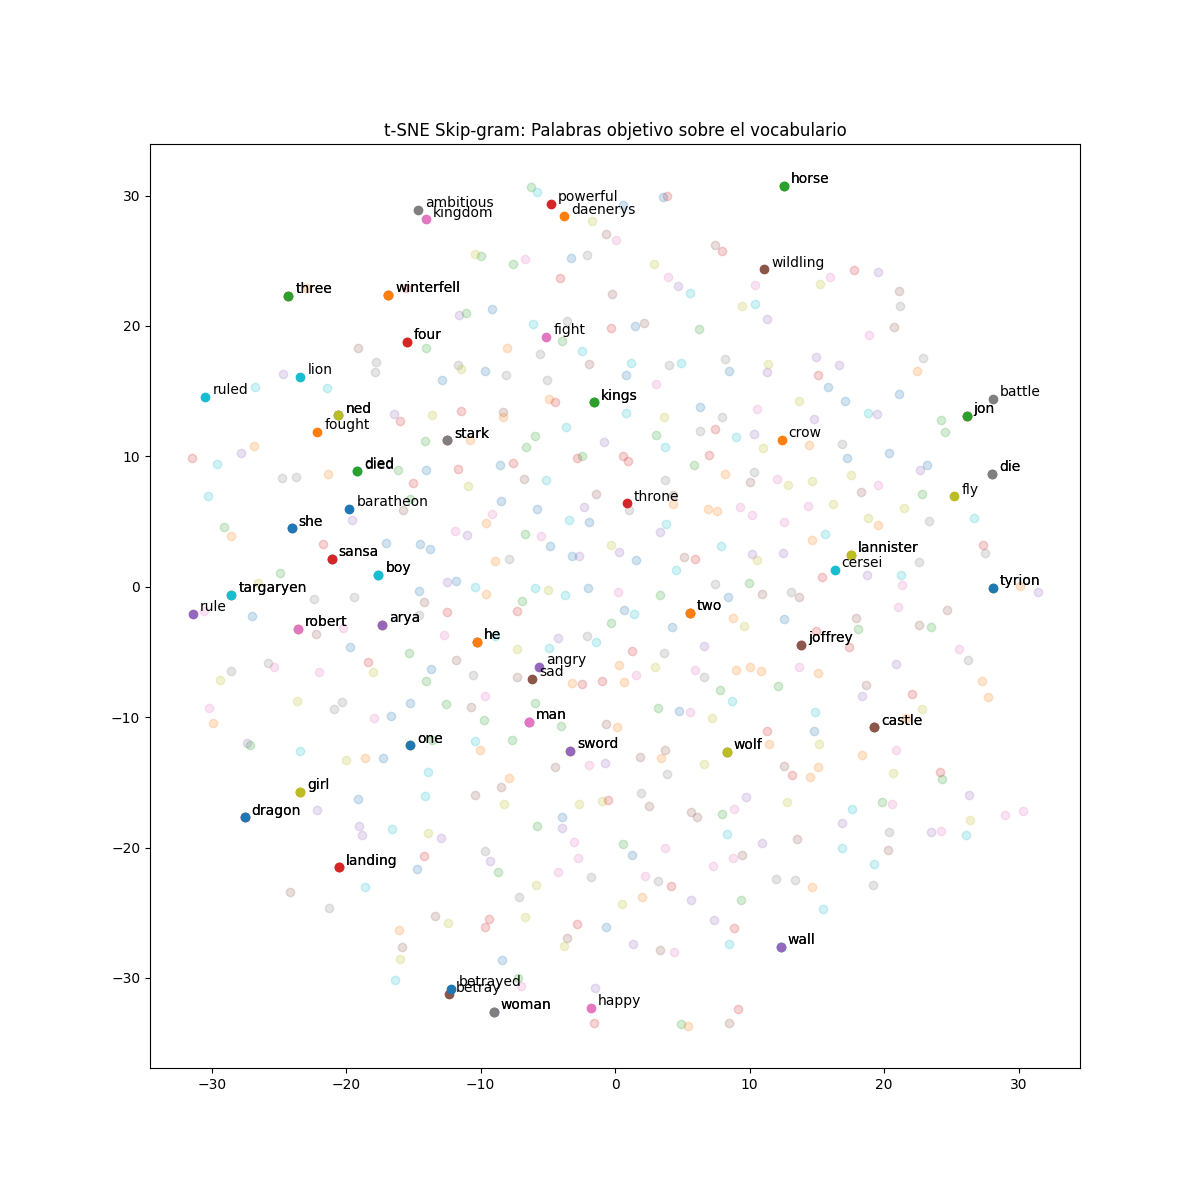
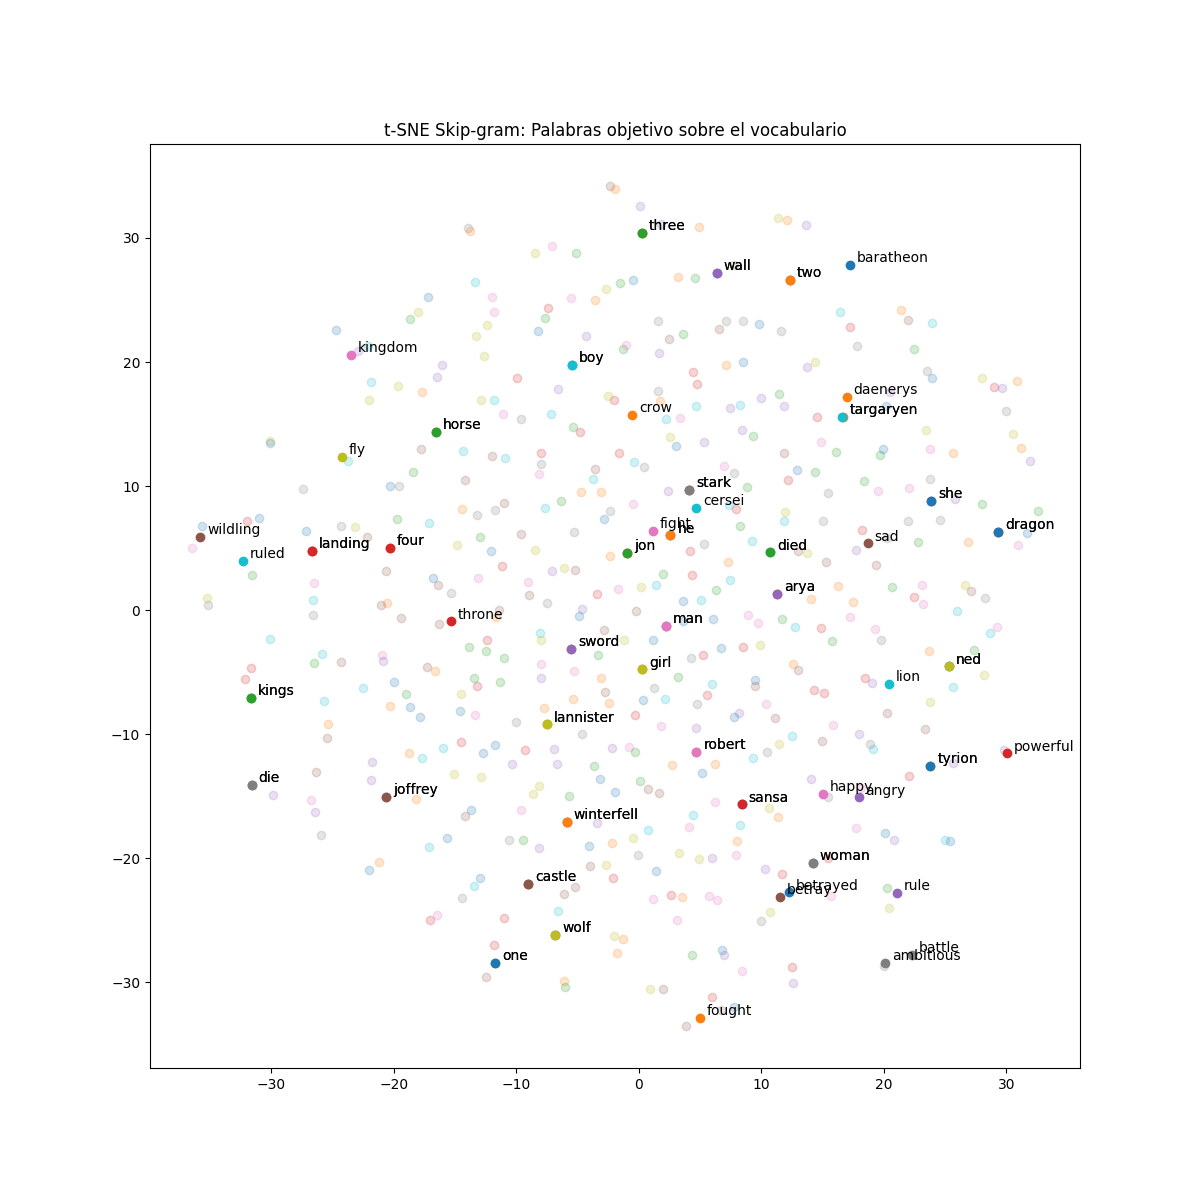
cambio ventana deslizante skipgram y reducción de épocas a 5 para evitar sobreajuste.

diff --git a/P2/skipgram.py b/P2/skipgram.py
@@ -27,7 +27,39 @@ def cargar_y_tokenizar(ruta_archivo):
     print(f"Tamaño del vocabulario: {vocab_size}")
     return tokenizer, secuencia_ids, vocab_size
 
-def submuestreo(secuencia, t=1e-4):
+def generar_muestras_skipgram(secuencia, vocab_size, window_size=2, negative_samples=4):
+    target_words = []
+    context_words = []
+    labels = []
+
+    for i, target in enumerate(secuencia):
+        # Definimos los límites de la ventana para la palabra actual
+        inicio = max(0, i - window_size)
+        fin = min(len(secuencia), i + window_size + 1)
+        
+        for j in range(inicio, fin):
+            if i == j: continue  # No emparejar la palabra consigo misma
+            
+            # 1. PAR POSITIVO (Palabra central + Palabra en ventana)
+            target_words.append(target)
+            context_words.append(secuencia[j])
+            labels.append(1)
+            
+            # 2. PARES NEGATIVOS (Muestreo Negativo)
+            for _ in range(negative_samples):
+                # Elegimos una palabra aleatoria del vocabulario
+                negativo = np.random.randint(1, vocab_size)
+                # Evitamos que la palabra negativa sea la propia palabra central
+                while negativo == target:
+                    negativo = np.random.randint(1, vocab_size)
+                
+                target_words.append(target)
+                context_words.append(negativo)
+                labels.append(0)
+
+    return np.array(target_words), np.array(context_words), np.array(labels)
+
+def submuestreo(secuencia, t=1e-5):
     total_words = len(secuencia)
     conteo = {}
     for word_id in secuencia:
@@ -167,10 +199,13 @@ if __name__ == "__main__":
     tokenizer, secuencia_ids, vocab_size = cargar_y_tokenizar(ruta_archivo)
     secuencia_filtrada = submuestreo(secuencia_ids)
 
-    # Generamos pares (1 positivo y 4 negativos por defecto)
-    pares, etiquetas = skipgrams(secuencia_filtrada, vocabulary_size=vocab_size, window_size=2, negative_samples=4, seed= 42)
-    word_target, word_context = zip(*pares)
-    word_target, word_context, etiquetas = np.array(word_target), np.array(word_context), np.array(etiquetas)
+    # Generamos pares (1 positivo y 4 negativos)
+    word_target, word_context, etiquetas = generar_muestras_skipgram(
+        secuencia_filtrada, 
+        vocab_size=vocab_size, 
+        window_size=2, 
+        negative_samples=4
+    )
 
     # Cargamos palabras objetivo
     with open(ruta_target, 'r', encoding='utf-8') as f:
@@ -188,7 +223,7 @@ if __name__ == "__main__":
     pesos_clase = {0: 1.0, 1: 4.0} 
     
     history = modelo.fit(x=[word_target, word_context], y=etiquetas, 
-                    batch_size=1024, epochs=8, validation_split=0.1, 
+                    batch_size=1024, epochs=5, validation_split=0.1, 
                     class_weight=pesos_clase)
     
     plot_history(history, model_name="SkipGram")
